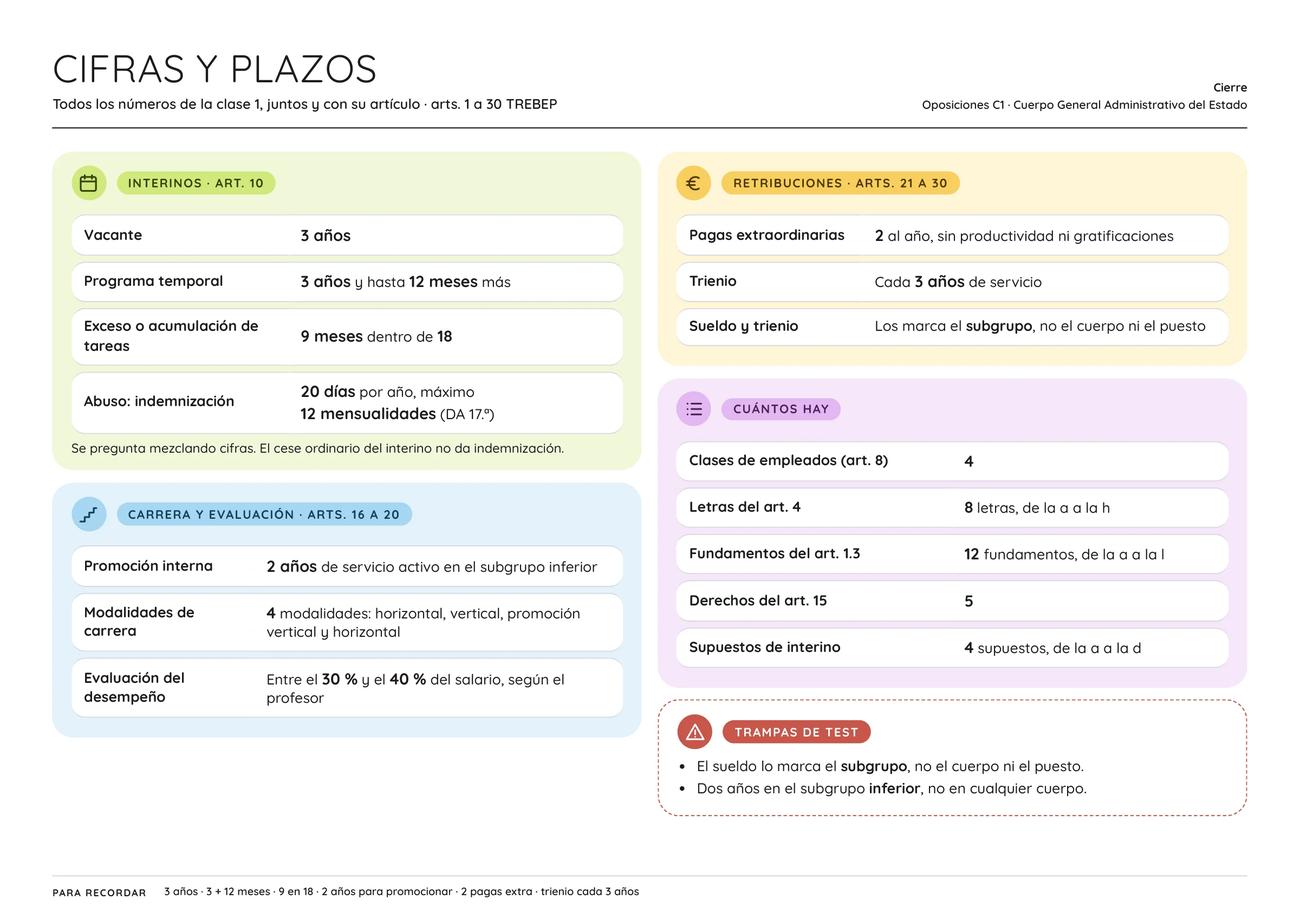
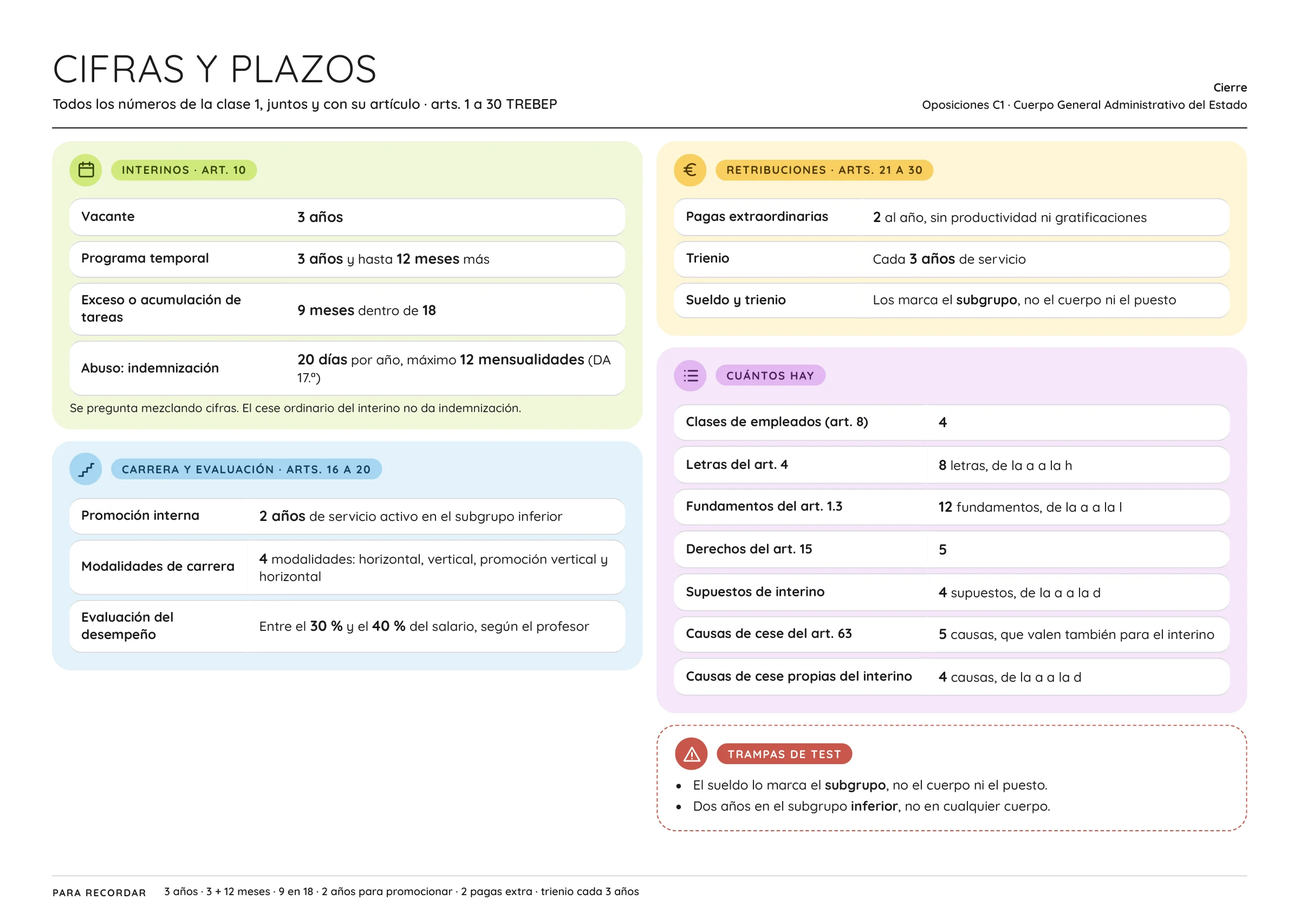
Apuntes: tres hojas nuevas del bloque 2 y fuera el glosario
Añade el cuadro de las cuatro clases, interinos (nombramiento, cese y régimen)
y personal eventual (organización, nombramiento y cese). Quita el glosario y
actualiza portada, cifras y plazos y el índice del volumen (27 hojas).

Changed region(s): [[0.0312, 0.1562, 0.9688, 0.9057]]

diff --git a/data/esquemas.js b/data/esquemas.js
@@ -1,3 +1,3 @@
-window.ESQUEMAS = {"portada": {"titulo": "Portada e índice", "paginas": [{"src": "img/esquemas/portada-1.webp", "w": 2400, "h": 1697}], "a": ""}, "metodo": {"titulo": "Método del supuesto práctico", "paginas": [{"src": "img/esquemas/metodo-1.webp", "w": 2400, "h": 1697}], "a": ""}, "senuelos": {"titulo": "Los señuelos que más se repiten", "paginas": [{"src": "img/esquemas/senuelos-1.webp", "w": 2400, "h": 1697}], "a": ""}, "t1-arranque": {"titulo": "El arranque del Estatuto", "paginas": [{"src": "img/esquemas/t1-arranque-1.webp", "w": 2400, "h": 1697}], "a": "1,6,7"}, "t1-aplica": {"titulo": "¿A quién se aplica el Estatuto?", "paginas": [{"src": "img/esquemas/t1-aplica-1.webp", "w": 2400, "h": 1697}], "a": "2,3"}, "t1-esquema": {"titulo": "Ámbito subjetivo de aplicación: el esquema", "paginas": [{"src": "img/esquemas/t1-esquema-1.webp", "w": 2400, "h": 1697}], "a": "2-5,7"}, "t1-propia": {"titulo": "¿Quién tiene ley propia?", "paginas": [{"src": "img/esquemas/t1-propia-1.webp", "w": 2400, "h": 1697}], "a": "4,5"}, "t1-practica": {"titulo": "Práctica y trampas del ámbito", "paginas": [{"src": "img/esquemas/t1-practica-1.webp", "w": 2400, "h": 1697}], "a": "1-7"}, "t2-clases": {"titulo": "Las cuatro clases de empleados", "paginas": [{"src": "img/esquemas/t2-clases-1.webp", "w": 2400, "h": 1697}], "a": "8,9,12,13"}, "t2-interinos": {"titulo": "Los interinos del art. 10", "paginas": [{"src": "img/esquemas/t2-interinos-1.webp", "w": 2400, "h": 1697}], "a": "10"}, "t2-laboral": {"titulo": "Laboral, eventual y directivo", "paginas": [{"src": "img/esquemas/t2-laboral-1.webp", "w": 2400, "h": 1697}], "a": "11-13"}, "t2-practica": {"titulo": "Práctica: qué empleado es y cómo cesa", "paginas": [{"src": "img/esquemas/t2-practica-1.webp", "w": 2400, "h": 1697}], "a": "8-13"}, "t3-14-15": {"titulo": "Art. 14 frente al art. 15", "paginas": [{"src": "img/esquemas/t3-14-15-1.webp", "w": 2400, "h": 1697}], "a": "14,15"}, "t3-practica": {"titulo": "Práctica: ¿art. 14 o art. 15?", "paginas": [{"src": "img/esquemas/t3-practica-1.webp", "w": 2400, "h": 1697}], "a": "14,15"}, "t4-escalera": {"titulo": "La escalera de la carrera profesional", "paginas": [{"src": "img/esquemas/t4-escalera-1.webp", "w": 2400, "h": 1697}], "a": "16"}, "t4-promocion": {"titulo": "Promoción interna y evaluación del desempeño", "paginas": [{"src": "img/esquemas/t4-promocion-1.webp", "w": 2400, "h": 1697}], "a": "17-20"}, "t4-practica": {"titulo": "Práctica: qué modalidad de carrera es", "paginas": [{"src": "img/esquemas/t4-practica-1.webp", "w": 2400, "h": 1697}], "a": "16-20"}, "t5-estructura": {"titulo": "La estructura retributiva", "paginas": [{"src": "img/esquemas/t5-estructura-1.webp", "w": 2400, "h": 1697}], "a": "21,22"}, "t5-basicas": {"titulo": "Básicas frente a complementarias", "paginas": [{"src": "img/esquemas/t5-basicas-1.webp", "w": 2400, "h": 1697}], "a": "23,24"}, "t5-otros": {"titulo": "Quién cobra qué: interinos, prácticas, laboral y diferidas", "paginas": [{"src": "img/esquemas/t5-otros-1.webp", "w": 2400, "h": 1697}], "a": "25-27,29"}, "t5-indemnizaciones": {"titulo": "Indemnizaciones y deducción de retribuciones", "paginas": [{"src": "img/esquemas/t5-indemnizaciones-1.webp", "w": 2400, "h": 1697}], "a": "28,30"}, "t5-practica": {"titulo": "Práctica: qué cobra y qué se le descuenta", "paginas": [{"src": "img/esquemas/t5-practica-1.webp", "w": 2400, "h": 1697}], "a": "21-30"}, "cifras": {"titulo": "Cifras y plazos", "paginas": [{"src": "img/esquemas/cifras-1.webp", "w": 2400, "h": 1697}], "a": ""}, "decide": {"titulo": "Quién decide y qué no se aplica", "paginas": [{"src": "img/esquemas/decide-1.webp", "w": 2400, "h": 1697}], "a": ""}, "glosario": {"titulo": "Glosario de términos de examen", "paginas": [{"src": "img/esquemas/glosario-1.webp", "w": 2400, "h": 1697}], "a": ""}};
-window.APUNTES = [{"id": "0", "etq": "00", "nombre": "Entrada", "desc": "Portada, método del supuesto práctico y los señuelos que más se repiten. Para empezar.", "grupos": [{"nombre": null, "ids": ["portada", "metodo", "senuelos"]}]}, {"id": "1", "etq": "01", "nombre": "Ámbito de aplicación", "desc": "Arts. 1 a 7. Qué regula el Estatuto, a quién se aplica y quién tiene legislación propia.", "grupos": [{"nombre": "Teoría", "ids": ["t1-arranque", "t1-aplica", "t1-esquema", "t1-propia"]}, {"nombre": "Práctica", "ids": ["t1-practica"]}]}, {"id": "2", "etq": "02", "nombre": "Clases de empleados públicos", "desc": "Arts. 8 a 13. Las cuatro clases de empleados, interinos incluidos.", "grupos": [{"nombre": "Teoría", "ids": ["t2-clases", "t2-interinos", "t2-laboral"]}, {"nombre": "Práctica", "ids": ["t2-practica"]}]}, {"id": "3", "etq": "03", "nombre": "Derechos de los empleados", "desc": "Arts. 14 y 15. Derechos individuales y derechos individuales ejercidos colectivamente.", "grupos": [{"nombre": "Teoría", "ids": ["t3-14-15"]}, {"nombre": "Práctica", "ids": ["t3-practica"]}]}, {"id": "4", "etq": "04", "nombre": "Carrera profesional", "desc": "Arts. 16 a 20. Carrera, promoción interna y evaluación del desempeño.", "grupos": [{"nombre": "Teoría", "ids": ["t4-escalera", "t4-promocion"]}, {"nombre": "Práctica", "ids": ["t4-practica"]}]}, {"id": "5", "etq": "05", "nombre": "Retribuciones", "desc": "Arts. 21 a 30. Estructura retributiva, sueldos, indemnizaciones y deducciones.", "grupos": [{"nombre": "Teoría", "ids": ["t5-estructura", "t5-basicas", "t5-otros", "t5-indemnizaciones"]}, {"nombre": "Práctica", "ids": ["t5-practica"]}]}, {"id": "6", "etq": "06", "nombre": "Cierre", "desc": "Cifras y plazos, quién decide y glosario. Para repasar.", "grupos": [{"nombre": null, "ids": ["cifras", "decide", "glosario"]}]}];
-window.ESQ_PREG = {"au-01-001": ["t1-arranque"], "au-01-002": ["t1-aplica", "t1-propia", "t1-esquema"], "au-01-003": ["t1-aplica", "t1-esquema"], "au-01-004": ["t1-aplica", "t1-esquema"], "au-01-005": ["t1-aplica", "t1-esquema"], "au-01-006": ["t1-propia", "t1-esquema"], "au-01-007": ["t1-aplica", "t1-esquema"], "au-01-008": ["t1-propia", "t1-esquema"], "au-01-009": ["t1-propia", "t1-esquema"], "au-01-010": ["t1-aplica", "t1-propia", "t1-esquema"], "au-01-011": ["t1-aplica", "t1-propia", "t1-esquema"], "au-01-012": ["t1-propia", "t1-esquema"], "au-01-013": ["t1-propia", "t1-esquema"], "au-01-014": ["t1-arranque", "t1-esquema"], "au-01-015": ["t1-arranque"], "au-02-001": ["t2-clases"], "au-02-002": ["t2-clases"], "au-02-003": ["t2-interinos"], "au-02-004": ["t2-interinos"], "au-02-005": ["t2-laboral", "t2-clases"], "au-02-006": ["t2-laboral", "t2-clases"], "au-02-007": ["t2-laboral", "t2-clases"], "au-02-008": ["t2-laboral", "t2-clases"], "au-02-009": ["t2-laboral", "t2-clases"], "au-02-010": ["t2-laboral", "t2-clases"], "au-02-011": ["t2-laboral", "t2-clases"], "au-02-012": ["t2-laboral"], "au-02-013": ["t2-laboral", "t2-clases"], "au-02-014": ["t2-laboral", "t2-clases"], "au-02-015": ["t2-interinos"], "au-02-016": ["t2-interinos"], "au-02-017": ["t2-clases"], "au-02-018": ["t2-clases"], "au-02-019": ["t2-interinos"], "au-02-020": ["t2-laboral", "t2-clases"], "au-03-001": ["t3-14-15"], "au-03-002": ["t3-14-15"], "au-03-003": ["t3-14-15"], "au-03-004": ["t3-14-15"], "au-03-005": ["t4-promocion"], "au-03-006": ["t4-escalera"], "au-03-007": ["t4-escalera"], "au-03-008": ["t4-promocion"], "au-03-009": ["t4-escalera"], "au-03-010": ["t4-promocion"], "au-03-011": ["t4-promocion"], "au-03-012": ["t4-promocion"], "au-03-013": ["t4-escalera"], "au-03-014": ["t4-promocion"], "au-03-015": ["t4-promocion"], "au-04-001": ["t5-basicas"], "au-04-002": ["t5-basicas"], "au-04-003": ["t5-basicas"], "au-04-004": ["t5-basicas"], "au-04-005": ["t5-basicas"], "au-04-006": ["t5-otros"], "au-04-007": ["t5-indemnizaciones", "t5-otros"], "au-04-008": ["t5-otros"], "au-04-009": ["t5-estructura"], "au-04-010": ["t5-basicas"], "au-04-011": ["t5-indemnizaciones"], "au-04-012": ["t5-basicas"], "au-04-013": ["t5-indemnizaciones"], "au-04-014": ["t5-estructura"], "au-04-015": ["t5-basicas"], "au-04-016": ["t5-estructura"], "au-04-017": ["t5-estructura", "t5-basicas"], "au-04-018": ["t5-otros"], "au-04-019": ["t5-otros"], "au-04-020": ["t5-estructura", "t5-basicas"], "au-08-012": ["t1-arranque", "t1-esquema"], "of-01-001": ["t1-arranque"], "of-01-002": ["t1-propia", "t1-esquema"], "of-01-003": ["t1-propia", "t1-esquema"], "of-01-004": ["t1-aplica", "t1-esquema"], "of-01-005": ["t1-propia", "t1-esquema"], "of-01-006": ["t1-propia", "t1-esquema"], "of-01-007": ["t1-arranque", "t1-esquema"], "of-01-008": ["t1-propia", "t1-esquema"], "of-01-009": ["t1-aplica", "t1-esquema"], "of-01-010": ["t1-arranque", "t1-esquema"], "of-01-011": ["t1-aplica", "t1-esquema"], "of-01-012": ["t1-propia", "t1-esquema"], "of-01-013": ["t1-aplica", "t1-esquema"], "of-02-001": ["t2-clases"], "of-02-002": ["t2-interinos"], "of-02-003": ["t2-clases"], "of-02-004": ["t2-laboral"], "of-02-005": ["t2-interinos"], "of-02-006": ["t2-interinos"], "of-02-007": ["t2-laboral", "t2-clases"], "of-02-008": ["t2-laboral", "t2-clases"], "of-02-009": ["t2-laboral"], "of-02-010": ["t2-clases"], "of-02-011": ["t2-laboral", "t2-clases"], "of-02-012": ["t2-interinos"], "of-02-013": ["t2-laboral", "t2-clases"], "of-02-014": ["t2-laboral", "t2-clases"], "of-02-015": ["t2-laboral"], "of-02-016": ["t2-laboral", "t2-clases"], "of-02-017": ["t2-interinos"], "of-02-018": ["t2-laboral", "t2-clases"], "of-02-019": ["t2-clases"], "of-02-020": ["t2-laboral"], "of-02-021": ["t2-interinos"], "of-02-022": ["t2-laboral", "t2-clases"], "of-02-023": ["t2-interinos"], "of-02-024": ["t2-laboral", "t2-clases"], "of-02-025": ["t2-clases"], "of-02-026": ["t2-interinos"], "of-02-027": ["t2-interinos"], "of-02-028": ["t2-laboral", "t2-clases"], "of-02-029": ["t2-interinos"], "of-02-030": ["t2-clases"], "of-02-031": ["t2-interinos"], "of-02-032": ["t2-laboral", "t2-clases"], "of-03-001": ["t4-escalera"], "of-03-002": ["t4-escalera"], "of-03-003": ["t4-escalera"], "of-03-004": ["t4-escalera"], "of-03-005": ["t4-escalera"], "of-03-006": ["t4-promocion"], "of-03-007": ["t4-promocion"], "of-03-008": ["t3-14-15"], "of-03-009": ["t4-escalera"], "of-03-010": ["t4-escalera"], "of-03-011": ["t3-14-15"], "of-03-012": ["t3-14-15"], "of-03-013": ["t3-14-15"], "of-03-014": ["t4-promocion"], "of-03-015": ["t3-14-15"], "of-03-016": ["t3-14-15"], "of-03-017": ["t3-14-15"], "of-03-018": ["t3-14-15"], "of-03-019": ["t4-promocion"], "of-03-020": ["t3-14-15"], "of-03-021": ["t4-promocion"], "of-04-001": ["t5-basicas"], "of-04-002": ["t5-basicas"], "of-04-003": ["t5-otros"], "of-04-004": ["t5-indemnizaciones"], "of-04-005": ["t5-basicas"], "of-04-006": ["t5-estructura"], "of-04-007": ["t5-otros"], "of-04-008": ["t5-basicas"], "of-04-009": ["t5-basicas"], "of-04-010": ["t5-otros"], "of-04-011": ["t5-basicas"], "of-04-012": ["t5-basicas"], "of-04-013": ["t5-basicas"], "of-04-014": ["t5-basicas"], "of-04-015": ["t5-basicas"], "of-04-016": ["t5-basicas"], "of-04-017": ["t5-estructura"], "of-04-018": ["t5-otros"], "of-04-019": ["t5-estructura"], "of-04-020": ["t5-estructura"], "vo-01-001": ["t1-aplica", "t1-esquema"], "vo-01-002": ["t1-aplica", "t1-esquema"], "vo-01-003": ["t1-propia", "t1-esquema"], "vo-01-004": ["t1-aplica", "t1-esquema"], "vo-01-005": ["t1-propia", "t1-esquema"], "vo-01-006": ["t1-aplica", "t1-esquema"], "vo-01-007": ["t2-clases"], "vo-01-008": ["t2-clases"], "vo-01-009": ["t2-clases"], "vo-01-010": ["t2-interinos"], "vo-01-011": ["t2-interinos"], "vo-01-012": ["t2-interinos"], "vo-01-013": ["t2-laboral"], "vo-01-014": ["t2-laboral", "t2-clases"], "vo-01-015": ["t2-laboral", "t2-clases"], "vo-01-016": ["t2-laboral", "t2-clases"], "vo-01-017": ["t2-laboral", "t2-clases"], "vo-01-018": ["t2-laboral", "t2-clases"], "vo-01-019": ["t3-14-15"], "vo-01-020": ["t3-14-15"], "vo-01-021": ["t3-14-15"], "vo-01-022": ["t4-escalera"], "vo-01-023": ["t4-escalera"], "vo-01-024": ["t4-escalera"], "vo-01-025": ["t4-promocion"], "vo-01-026": ["t4-promocion"], "vo-01-027": ["t4-promocion"], "vo-01-028": ["t5-basicas"], "vo-01-029": ["t5-basicas"], "vo-01-030": ["t5-basicas"], "vo-01-031": ["t5-indemnizaciones"], "vo-01-032": ["t5-otros"], "vo-01-033": ["t5-otros"], "vo-03-029": ["t4-escalera"], "vo-04-001": ["t1-arranque"], "vo-04-002": ["t1-aplica", "t1-esquema"], "vo-04-003": ["t1-aplica", "t1-esquema"], "vo-04-004": ["t1-propia", "t1-esquema"], "vo-04-005": ["t1-propia", "t1-esquema"], "vo-04-006": ["t1-arranque"], "vo-04-007": ["t1-arranque", "t1-esquema"], "vo-04-008": ["t2-clases"], "vo-04-009": ["t2-clases"], "vo-04-010": ["t2-clases"], "vo-04-011": ["t2-interinos"], "vo-04-012": ["t2-interinos"], "vo-04-013": ["t2-interinos"], "vo-04-014": ["t2-laboral"], "vo-04-015": ["t2-laboral", "t2-clases"], "vo-04-016": ["t2-laboral", "t2-clases"], "vo-04-017": ["t3-14-15"], "vo-04-018": ["t3-14-15"], "vo-04-019": ["t3-14-15"], "vo-04-020": ["t4-escalera"], "vo-04-021": ["t4-escalera"], "vo-04-022": ["t4-escalera"], "vo-04-023": ["t4-promocion"], "vo-04-024": ["t4-promocion"], "vo-04-025": ["t4-promocion"], "vo-04-026": ["t5-estructura"], "vo-04-027": ["t5-estructura"], "vo-04-028": ["t5-basicas"], "vo-04-029": ["t5-basicas"], "vo-04-030": ["t5-otros"], "vo-04-031": ["t5-otros"], "vo-04-032": ["t5-indemnizaciones"], "ex-01-001": ["t1-arranque"], "ex-01-002": ["t1-arranque"], "ex-01-003": ["t1-arranque"], "ex-01-004": ["t1-aplica", "t1-esquema"], "ex-01-005": ["t1-aplica", "t1-esquema"], "ex-01-006": ["t1-aplica", "t1-esquema"], "ex-01-007": ["t1-aplica", "t1-esquema"], "ex-01-008": ["t1-aplica", "t1-esquema"], "ex-01-009": ["t1-aplica", "t1-esquema"], "ex-01-010": ["t1-aplica", "t1-esquema"], "ex-01-011": ["t1-propia", "t1-esquema"], "ex-01-012": ["t1-aplica", "t1-esquema"], "ex-01-013": ["t1-propia", "t1-esquema"], "ex-01-014": ["t1-propia", "t1-esquema"], "ex-01-015": ["t1-arranque"], "ex-01-016": ["t1-arranque", "t1-esquema"], "ex-01-017": ["t1-arranque", "t1-esquema"], "ex-02-001": ["t1-propia", "t1-esquema"], "ex-02-002": ["t1-aplica", "t1-esquema"], "ex-02-003": ["t1-propia", "t1-esquema"], "ex-02-004": ["t1-aplica", "t1-esquema"], "ex-02-005": ["t1-propia", "t1-esquema"], "ex-02-006": ["t1-aplica", "t1-esquema"], "ex-02-007": ["t1-propia", "t1-esquema"], "ex-02-008": ["t1-aplica", "t1-esquema"], "ex-02-009": ["t1-propia", "t1-esquema"], "ex-02-010": ["t1-aplica", "t1-esquema"], "ex-03-001": ["t2-clases"], "ex-03-002": ["t2-clases"], "ex-03-003": ["t2-clases"], "ex-03-004": ["t2-interinos"], "ex-03-005": ["t2-interinos"], "ex-03-006": ["t2-interinos"], "ex-03-007": ["t2-interinos"], "ex-03-008": ["t2-interinos"], "ex-03-009": ["t2-interinos"], "ex-03-010": ["t2-interinos"], "ex-03-011": ["t2-interinos"], "ex-03-012": ["t2-interinos"], "ex-03-013": ["t2-interinos"], "ex-03-014": ["t2-laboral"], "ex-03-015": ["t2-laboral"], "ex-03-016": ["t2-laboral"], "ex-03-017": ["t2-laboral"], "ex-03-018": ["t2-laboral", "t2-clases"], "ex-03-019": ["t2-laboral", "t2-clases"], "ex-03-020": ["t2-laboral", "t2-clases"], "ex-03-021": ["t2-laboral", "t2-clases"], "ex-03-022": ["t2-laboral", "t2-clases"], "ex-03-023": ["t2-laboral", "t2-clases"], "ex-03-024": ["t2-laboral", "t2-clases"], "ex-03-025": ["t2-laboral", "t2-clases"], "ex-04-001": ["t3-14-15"], "ex-04-002": ["t3-14-15"], "ex-04-003": ["t3-14-15"], "ex-04-004": ["t3-14-15"], "ex-04-005": ["t3-14-15"], "ex-04-006": ["t3-14-15"], "ex-04-007": ["t3-14-15"], "ex-04-008": ["t3-14-15"], "ex-04-009": ["t3-14-15"], "ex-04-010": ["t3-14-15"], "ex-05-001": ["t4-escalera"], "ex-05-002": ["t4-escalera"], "ex-05-003": ["t4-escalera"], "ex-05-004": ["t4-escalera"], "ex-05-005": ["t4-escalera"], "ex-05-006": ["t4-escalera"], "ex-05-007": ["t4-promocion"], "ex-05-008": ["t4-promocion"], "ex-05-009": ["t4-promocion"], "ex-05-010": ["t4-promocion"], "ex-05-011": ["t4-promocion"], "ex-05-012": ["t4-promocion"], "ex-05-013": ["t4-promocion"], "ex-06-001": ["t5-estructura"], "ex-06-002": ["t5-estructura"], "ex-06-003": ["t5-estructura"], "ex-06-004": ["t5-estructura"], "ex-06-005": ["t5-basicas"], "ex-06-006": ["t5-basicas"], "ex-06-007": ["t5-basicas"], "ex-06-008": ["t5-basicas"], "ex-06-009": ["t5-otros"], "ex-06-010": ["t5-otros"], "ex-06-011": ["t5-otros"], "ex-06-012": ["t5-otros"], "ex-06-013": ["t5-indemnizaciones"], "ex-07-001": ["t2-interinos"], "ex-07-002": ["t5-basicas"], "ex-07-003": ["t2-laboral"], "ex-07-004": ["t2-interinos"], "ex-07-005": ["t2-laboral", "t2-clases"], "ex-07-006": ["t5-indemnizaciones"], "ex-07-007": ["t5-indemnizaciones"], "ex-07-008": ["t4-escalera"], "ex-07-009": ["t2-interinos"], "ex-07-010": ["t3-14-15"], "ex-07-011": ["t1-aplica", "t1-esquema"], "ex-07-012": ["t2-interinos", "t2-laboral"], "ex-07-013": ["t5-otros"], "ex-07-014": ["t2-interinos"], "ex-07-015": ["t1-arranque", "t1-esquema"], "ex-07-016": ["t4-promocion"], "ex-07-017": ["t5-basicas"], "ex-07-018": ["t2-clases"], "ex-07-019": ["t1-propia", "t1-esquema"], "ex-07-020": ["t2-laboral"], "su-02-001": ["t1-propia", "t1-esquema"], "su-02-002": ["t1-aplica", "t1-propia", "t1-esquema"], "su-02-003": ["t1-propia", "t1-esquema"], "su-02-004": ["t1-aplica", "t1-esquema"], "su-02-005": ["t1-aplica", "t1-esquema"], "su-02-006": ["t1-arranque", "t1-esquema"], "su-02-007": ["t1-aplica", "t1-esquema"], "su-03-001": ["t2-clases"], "su-03-002": ["t2-laboral"], "su-03-003": ["t2-laboral", "t2-clases"], "su-03-004": ["t2-laboral", "t2-clases"], "su-03-005": ["t3-14-15"], "su-03-006": ["t2-interinos"], "su-03-007": ["t2-interinos"], "su-03-008": ["t2-interinos"], "su-03-009": ["t2-interinos"], "su-03-010": ["t2-interinos"], "su-04-001": ["t4-escalera"], "su-04-002": ["t4-escalera", "t4-promocion"], "su-04-003": ["t4-escalera", "t4-promocion"], "su-04-004": ["t4-escalera"], "su-04-005": ["t5-estructura", "t5-basicas"], "su-04-006": ["t5-basicas"], "su-04-007": ["t5-basicas"], "su-04-008": ["t5-estructura"], "su-04-009": ["t5-basicas"], "su-04-010": ["t5-basicas"]};
+window.ESQUEMAS = {"portada": {"titulo": "Portada e índice", "paginas": [{"src": "img/esquemas/portada-1.webp", "w": 2400, "h": 1697}], "a": ""}, "metodo": {"titulo": "Método del supuesto práctico", "paginas": [{"src": "img/esquemas/metodo-1.webp", "w": 2400, "h": 1697}], "a": ""}, "senuelos": {"titulo": "Los señuelos que más se repiten", "paginas": [{"src": "img/esquemas/senuelos-1.webp", "w": 2400, "h": 1697}], "a": ""}, "t1-arranque": {"titulo": "El arranque del Estatuto", "paginas": [{"src": "img/esquemas/t1-arranque-1.webp", "w": 2400, "h": 1697}], "a": "1,6,7"}, "t1-aplica": {"titulo": "¿A quién se aplica el Estatuto?", "paginas": [{"src": "img/esquemas/t1-aplica-1.webp", "w": 2400, "h": 1697}], "a": "2,3"}, "t1-esquema": {"titulo": "Ámbito subjetivo de aplicación: el esquema", "paginas": [{"src": "img/esquemas/t1-esquema-1.webp", "w": 2400, "h": 1697}], "a": "2-5,7"}, "t1-propia": {"titulo": "¿Quién tiene ley propia?", "paginas": [{"src": "img/esquemas/t1-propia-1.webp", "w": 2400, "h": 1697}], "a": "4,5"}, "t1-practica": {"titulo": "Práctica y trampas del ámbito", "paginas": [{"src": "img/esquemas/t1-practica-1.webp", "w": 2400, "h": 1697}], "a": "1-7"}, "t2-clases": {"titulo": "Las cuatro clases de empleados", "paginas": [{"src": "img/esquemas/t2-clases-1.webp", "w": 2400, "h": 1697}], "a": "8,9,12,13"}, "t2-cuadro": {"titulo": "Cuadro comparativo de las cuatro clases", "paginas": [{"src": "img/esquemas/t2-cuadro-1.webp", "w": 2400, "h": 1697}], "a": "9-12"}, "t2-interinos": {"titulo": "Los interinos del art. 10", "paginas": [{"src": "img/esquemas/t2-interinos-1.webp", "w": 2400, "h": 1697}], "a": "10"}, "t2-interinos-cese": {"titulo": "Funcionarios interinos: nombramiento, cese y régimen", "paginas": [{"src": "img/esquemas/t2-interinos-cese-1.webp", "w": 2400, "h": 1697}], "a": "10"}, "t2-laboral": {"titulo": "Laboral, eventual y directivo", "paginas": [{"src": "img/esquemas/t2-laboral-1.webp", "w": 2400, "h": 1697}], "a": "11-13"}, "t2-eventual": {"titulo": "Personal eventual: organización, nombramiento y cese", "paginas": [{"src": "img/esquemas/t2-eventual-1.webp", "w": 2400, "h": 1697}], "a": "12"}, "t2-practica": {"titulo": "Práctica: qué empleado es y cómo cesa", "paginas": [{"src": "img/esquemas/t2-practica-1.webp", "w": 2400, "h": 1697}], "a": "8-13"}, "t3-14-15": {"titulo": "Art. 14 frente al art. 15", "paginas": [{"src": "img/esquemas/t3-14-15-1.webp", "w": 2400, "h": 1697}], "a": "14,15"}, "t3-practica": {"titulo": "Práctica: ¿art. 14 o art. 15?", "paginas": [{"src": "img/esquemas/t3-practica-1.webp", "w": 2400, "h": 1697}], "a": "14,15"}, "t4-escalera": {"titulo": "La escalera de la carrera profesional", "paginas": [{"src": "img/esquemas/t4-escalera-1.webp", "w": 2400, "h": 1697}], "a": "16"}, "t4-promocion": {"titulo": "Promoción interna y evaluación del desempeño", "paginas": [{"src": "img/esquemas/t4-promocion-1.webp", "w": 2400, "h": 1697}], "a": "17-20"}, "t4-practica": {"titulo": "Práctica: qué modalidad de carrera es", "paginas": [{"src": "img/esquemas/t4-practica-1.webp", "w": 2400, "h": 1697}], "a": "16-20"}, "t5-estructura": {"titulo": "La estructura retributiva", "paginas": [{"src": "img/esquemas/t5-estructura-1.webp", "w": 2400, "h": 1697}], "a": "21,22"}, "t5-basicas": {"titulo": "Básicas frente a complementarias", "paginas": [{"src": "img/esquemas/t5-basicas-1.webp", "w": 2400, "h": 1697}], "a": "23,24"}, "t5-otros": {"titulo": "Quién cobra qué: interinos, prácticas, laboral y diferidas", "paginas": [{"src": "img/esquemas/t5-otros-1.webp", "w": 2400, "h": 1697}], "a": "25-27,29"}, "t5-indemnizaciones": {"titulo": "Indemnizaciones y deducción de retribuciones", "paginas": [{"src": "img/esquemas/t5-indemnizaciones-1.webp", "w": 2400, "h": 1697}], "a": "28,30"}, "t5-practica": {"titulo": "Práctica: qué cobra y qué se le descuenta", "paginas": [{"src": "img/esquemas/t5-practica-1.webp", "w": 2400, "h": 1697}], "a": "21-30"}, "cifras": {"titulo": "Cifras y plazos", "paginas": [{"src": "img/esquemas/cifras-1.webp", "w": 2400, "h": 1697}], "a": ""}, "decide": {"titulo": "Quién decide y qué no se aplica", "paginas": [{"src": "img/esquemas/decide-1.webp", "w": 2400, "h": 1697}], "a": ""}};
+window.APUNTES = [{"id": "0", "etq": "00", "nombre": "Entrada", "desc": "Portada, método del supuesto práctico y los señuelos que más se repiten. Para empezar.", "grupos": [{"nombre": null, "ids": ["portada", "metodo", "senuelos"]}]}, {"id": "1", "etq": "01", "nombre": "Ámbito de aplicación", "desc": "Arts. 1 a 7. Qué regula el Estatuto, a quién se aplica y quién tiene legislación propia.", "grupos": [{"nombre": "Teoría", "ids": ["t1-arranque", "t1-aplica", "t1-esquema", "t1-propia"]}, {"nombre": "Práctica", "ids": ["t1-practica"]}]}, {"id": "2", "etq": "02", "nombre": "Clases de empleados públicos", "desc": "Arts. 8 a 13. Las cuatro clases de empleados, con su cuadro, los interinos y el personal eventual.", "grupos": [{"nombre": "Teoría", "ids": ["t2-clases", "t2-cuadro", "t2-interinos", "t2-interinos-cese", "t2-laboral", "t2-eventual"]}, {"nombre": "Práctica", "ids": ["t2-practica"]}]}, {"id": "3", "etq": "03", "nombre": "Derechos de los empleados", "desc": "Arts. 14 y 15. Derechos individuales y derechos individuales ejercidos colectivamente.", "grupos": [{"nombre": "Teoría", "ids": ["t3-14-15"]}, {"nombre": "Práctica", "ids": ["t3-practica"]}]}, {"id": "4", "etq": "04", "nombre": "Carrera profesional", "desc": "Arts. 16 a 20. Carrera, promoción interna y evaluación del desempeño.", "grupos": [{"nombre": "Teoría", "ids": ["t4-escalera", "t4-promocion"]}, {"nombre": "Práctica", "ids": ["t4-practica"]}]}, {"id": "5", "etq": "05", "nombre": "Retribuciones", "desc": "Arts. 21 a 30. Estructura retributiva, sueldos, indemnizaciones y deducciones.", "grupos": [{"nombre": "Teoría", "ids": ["t5-estructura", "t5-basicas", "t5-otros", "t5-indemnizaciones"]}, {"nombre": "Práctica", "ids": ["t5-practica"]}]}, {"id": "6", "etq": "06", "nombre": "Cierre", "desc": "Cifras y plazos y quién decide. Para repasar.", "grupos": [{"nombre": null, "ids": ["cifras", "decide"]}]}];
+window.ESQ_PREG = {"au-01-001": ["t1-arranque"], "au-01-002": ["t1-aplica", "t1-propia", "t1-esquema"], "au-01-003": ["t1-aplica", "t1-esquema"], "au-01-004": ["t1-aplica", "t1-esquema"], "au-01-005": ["t1-aplica", "t1-esquema"], "au-01-006": ["t1-propia", "t1-esquema"], "au-01-007": ["t1-aplica", "t1-esquema"], "au-01-008": ["t1-propia", "t1-esquema"], "au-01-009": ["t1-propia", "t1-esquema"], "au-01-010": ["t1-aplica", "t1-propia", "t1-esquema"], "au-01-011": ["t1-aplica", "t1-propia", "t1-esquema"], "au-01-012": ["t1-propia", "t1-esquema"], "au-01-013": ["t1-propia", "t1-esquema"], "au-01-014": ["t1-arranque", "t1-esquema"], "au-01-015": ["t1-arranque"], "au-02-001": ["t2-clases"], "au-02-002": ["t2-clases", "t2-cuadro"], "au-02-003": ["t2-interinos", "t2-interinos-cese", "t2-cuadro"], "au-02-004": ["t2-interinos", "t2-interinos-cese", "t2-cuadro"], "au-02-005": ["t2-laboral", "t2-clases"], "au-02-006": ["t2-laboral", "t2-clases"], "au-02-007": ["t2-laboral", "t2-clases"], "au-02-008": ["t2-laboral", "t2-clases"], "au-02-009": ["t2-eventual", "t2-laboral", "t2-clases", "t2-cuadro"], "au-02-010": ["t2-laboral", "t2-clases"], "au-02-011": ["t2-eventual", "t2-laboral", "t2-clases", "t2-cuadro"], "au-02-012": ["t2-laboral", "t2-cuadro"], "au-02-013": ["t2-eventual", "t2-laboral", "t2-clases", "t2-cuadro"], "au-02-014": ["t2-eventual", "t2-laboral", "t2-clases", "t2-cuadro"], "au-02-015": ["t2-interinos", "t2-interinos-cese", "t2-cuadro"], "au-02-016": ["t2-interinos", "t2-interinos-cese", "t2-cuadro"], "au-02-017": ["t2-clases"], "au-02-018": ["t2-clases", "t2-cuadro"], "au-02-019": ["t2-interinos", "t2-interinos-cese", "t2-cuadro"], "au-02-020": ["t2-eventual", "t2-laboral", "t2-clases", "t2-cuadro"], "au-03-001": ["t3-14-15"], "au-03-002": ["t3-14-15"], "au-03-003": ["t3-14-15"], "au-03-004": ["t3-14-15"], "au-03-005": ["t4-promocion"], "au-03-006": ["t4-escalera"], "au-03-007": ["t4-escalera"], "au-03-008": ["t4-promocion"], "au-03-009": ["t4-escalera"], "au-03-010": ["t4-promocion"], "au-03-011": ["t4-promocion"], "au-03-012": ["t4-promocion"], "au-03-013": ["t4-escalera"], "au-03-014": ["t4-promocion"], "au-03-015": ["t4-promocion"], "au-04-001": ["t5-basicas"], "au-04-002": ["t5-basicas"], "au-04-003": ["t5-basicas"], "au-04-004": ["t5-basicas"], "au-04-005": ["t5-basicas"], "au-04-006": ["t5-otros"], "au-04-007": ["t5-indemnizaciones", "t5-otros"], "au-04-008": ["t5-otros"], "au-04-009": ["t5-estructura"], "au-04-010": ["t5-basicas"], "au-04-011": ["t5-indemnizaciones"], "au-04-012": ["t5-basicas"], "au-04-013": ["t5-indemnizaciones"], "au-04-014": ["t5-estructura"], "au-04-015": ["t5-basicas"], "au-04-016": ["t5-estructura"], "au-04-017": ["t5-estructura", "t5-basicas"], "au-04-018": ["t5-otros"], "au-04-019": ["t5-otros"], "au-04-020": ["t5-estructura", "t5-basicas"], "au-08-012": ["t1-arranque", "t1-esquema"], "of-01-001": ["t1-arranque"], "of-01-002": ["t1-propia", "t1-esquema"], "of-01-003": ["t1-propia", "t1-esquema"], "of-01-004": ["t1-aplica", "t1-esquema"], "of-01-005": ["t1-propia", "t1-esquema"], "of-01-006": ["t1-propia", "t1-esquema"], "of-01-007": ["t1-arranque", "t1-esquema"], "of-01-008": ["t1-propia", "t1-esquema"], "of-01-009": ["t1-aplica", "t1-esquema"], "of-01-010": ["t1-arranque", "t1-esquema"], "of-01-011": ["t1-aplica", "t1-esquema"], "of-01-012": ["t1-propia", "t1-esquema"], "of-01-013": ["t1-aplica", "t1-esquema"], "of-02-001": ["t2-clases"], "of-02-002": ["t2-interinos", "t2-interinos-cese", "t2-cuadro"], "of-02-003": ["t2-clases", "t2-cuadro"], "of-02-004": ["t2-laboral", "t2-cuadro"], "of-02-005": ["t2-interinos", "t2-interinos-cese", "t2-cuadro"], "of-02-006": ["t2-interinos", "t2-interinos-cese", "t2-cuadro"], "of-02-007": ["t2-laboral", "t2-clases"], "of-02-008": ["t2-eventual", "t2-laboral", "t2-clases", "t2-cuadro"], "of-02-009": ["t2-laboral", "t2-cuadro"], "of-02-010": ["t2-clases", "t2-cuadro"], "of-02-011": ["t2-eventual", "t2-laboral", "t2-clases", "t2-cuadro"], "of-02-012": ["t2-interinos", "t2-interinos-cese", "t2-cuadro"], "of-02-013": ["t2-laboral", "t2-clases"], "of-02-014": ["t2-eventual", "t2-laboral", "t2-clases", "t2-cuadro"], "of-02-015": ["t2-laboral", "t2-cuadro"], "of-02-016": ["t2-eventual", "t2-laboral", "t2-clases", "t2-cuadro"], "of-02-017": ["t2-interinos", "t2-interinos-cese", "t2-cuadro"], "of-02-018": ["t2-eventual", "t2-laboral", "t2-clases", "t2-cuadro"], "of-02-019": ["t2-clases"], "of-02-020": ["t2-laboral", "t2-cuadro"], "of-02-021": ["t2-interinos", "t2-interinos-cese", "t2-cuadro"], "of-02-022": ["t2-eventual", "t2-laboral", "t2-clases", "t2-cuadro"], "of-02-023": ["t2-interinos", "t2-interinos-cese", "t2-cuadro"], "of-02-024": ["t2-eventual", "t2-laboral", "t2-clases", "t2-cuadro"], "of-02-025": ["t2-clases", "t2-cuadro"], "of-02-026": ["t2-interinos", "t2-interinos-cese", "t2-cuadro"], "of-02-027": ["t2-interinos", "t2-interinos-cese", "t2-cuadro"], "of-02-028": ["t2-laboral", "t2-clases"], "of-02-029": ["t2-interinos", "t2-interinos-cese", "t2-cuadro"], "of-02-030": ["t2-clases"], "of-02-031": ["t2-interinos", "t2-interinos-cese", "t2-cuadro"], "of-02-032": ["t2-eventual", "t2-laboral", "t2-clases", "t2-cuadro"], "of-03-001": ["t4-escalera"], "of-03-002": ["t4-escalera"], "of-03-003": ["t4-escalera"], "of-03-004": ["t4-escalera"], "of-03-005": ["t4-escalera"], "of-03-006": ["t4-promocion"], "of-03-007": ["t4-promocion"], "of-03-008": ["t3-14-15"], "of-03-009": ["t4-escalera"], "of-03-010": ["t4-escalera"], "of-03-011": ["t3-14-15"], "of-03-012": ["t3-14-15"], "of-03-013": ["t3-14-15"], "of-03-014": ["t4-promocion"], "of-03-015": ["t3-14-15"], "of-03-016": ["t3-14-15"], "of-03-017": ["t3-14-15"], "of-03-018": ["t3-14-15"], "of-03-019": ["t4-promocion"], "of-03-020": ["t3-14-15"], "of-03-021": ["t4-promocion"], "of-04-001": ["t5-basicas"], "of-04-002": ["t5-basicas"], "of-04-003": ["t5-otros"], "of-04-004": ["t5-indemnizaciones"], "of-04-005": ["t5-basicas"], "of-04-006": ["t5-estructura"], "of-04-007": ["t5-otros"], "of-04-008": ["t5-basicas"], "of-04-009": ["t5-basicas"], "of-04-010": ["t5-otros"], "of-04-011": ["t5-basicas"], "of-04-012": ["t5-basicas"], "of-04-013": ["t5-basicas"], "of-04-014": ["t5-basicas"], "of-04-015": ["t5-basicas"], "of-04-016": ["t5-basicas"], "of-04-017": ["t5-estructura"], "of-04-018": ["t5-otros"], "of-04-019": ["t5-estructura"], "of-04-020": ["t5-estructura"], "vo-01-001": ["t1-aplica", "t1-esquema"], "vo-01-002": ["t1-aplica", "t1-esquema"], "vo-01-003": ["t1-propia", "t1-esquema"], "vo-01-004": ["t1-aplica", "t1-esquema"], "vo-01-005": ["t1-propia", "t1-esquema"], "vo-01-006": ["t1-aplica", "t1-esquema"], "vo-01-007": ["t2-clases"], "vo-01-008": ["t2-clases", "t2-cuadro"], "vo-01-009": ["t2-clases", "t2-cuadro"], "vo-01-010": ["t2-interinos", "t2-interinos-cese", "t2-cuadro"], "vo-01-011": ["t2-interinos", "t2-interinos-cese", "t2-cuadro"], "vo-01-012": ["t2-interinos", "t2-interinos-cese", "t2-cuadro"], "vo-01-013": ["t2-laboral", "t2-cuadro"], "vo-01-014": ["t2-eventual", "t2-laboral", "t2-clases", "t2-cuadro"], "vo-01-015": ["t2-eventual", "t2-laboral", "t2-clases", "t2-cuadro"], "vo-01-016": ["t2-laboral", "t2-clases"], "vo-01-017": ["t2-laboral", "t2-clases"], "vo-01-018": ["t2-laboral", "t2-clases"], "vo-01-019": ["t3-14-15"], "vo-01-020": ["t3-14-15"], "vo-01-021": ["t3-14-15"], "vo-01-022": ["t4-escalera"], "vo-01-023": ["t4-escalera"], "vo-01-024": ["t4-escalera"], "vo-01-025": ["t4-promocion"], "vo-01-026": ["t4-promocion"], "vo-01-027": ["t4-promocion"], "vo-01-028": ["t5-basicas"], "vo-01-029": ["t5-basicas"], "vo-01-030": ["t5-basicas"], "vo-01-031": ["t5-indemnizaciones"], "vo-01-032": ["t5-otros"], "vo-01-033": ["t5-otros"], "vo-03-029": ["t4-escalera"], "vo-04-001": ["t1-arranque"], "vo-04-002": ["t1-aplica", "t1-esquema"], "vo-04-003": ["t1-aplica", "t1-esquema"], "vo-04-004": ["t1-propia", "t1-esquema"], "vo-04-005": ["t1-propia", "t1-esquema"], "vo-04-006": ["t1-arranque"], "vo-04-007": ["t1-arranque", "t1-esquema"], "vo-04-008": ["t2-clases"], "vo-04-009": ["t2-clases", "t2-cuadro"], "vo-04-010": ["t2-clases", "t2-cuadro"], "vo-04-011": ["t2-interinos", "t2-interinos-cese", "t2-cuadro"], "vo-04-012": ["t2-interinos", "t2-interinos-cese", "t2-cuadro"], "vo-04-013": ["t2-interinos", "t2-interinos-cese", "t2-cuadro"], "vo-04-014": ["t2-laboral", "t2-cuadro"], "vo-04-015": ["t2-eventual", "t2-laboral", "t2-clases", "t2-cuadro"], "vo-04-016": ["t2-laboral", "t2-clases"], "vo-04-017": ["t3-14-15"], "vo-04-018": ["t3-14-15"], "vo-04-019": ["t3-14-15"], "vo-04-020": ["t4-escalera"], "vo-04-021": ["t4-escalera"], "vo-04-022": ["t4-escalera"], "vo-04-023": ["t4-promocion"], "vo-04-024": ["t4-promocion"], "vo-04-025": ["t4-promocion"], "vo-04-026": ["t5-estructura"], "vo-04-027": ["t5-estructura"], "vo-04-028": ["t5-basicas"], "vo-04-029": ["t5-basicas"], "vo-04-030": ["t5-otros"], "vo-04-031": ["t5-otros"], "vo-04-032": ["t5-indemnizaciones"], "ex-01-001": ["t1-arranque"], "ex-01-002": ["t1-arranque"], "ex-01-003": ["t1-arranque"], "ex-01-004": ["t1-aplica", "t1-esquema"], "ex-01-005": ["t1-aplica", "t1-esquema"], "ex-01-006": ["t1-aplica", "t1-esquema"], "ex-01-007": ["t1-aplica", "t1-esquema"], "ex-01-008": ["t1-aplica", "t1-esquema"], "ex-01-009": ["t1-aplica", "t1-esquema"], "ex-01-010": ["t1-aplica", "t1-esquema"], "ex-01-011": ["t1-propia", "t1-esquema"], "ex-01-012": ["t1-aplica", "t1-esquema"], "ex-01-013": ["t1-propia", "t1-esquema"], "ex-01-014": ["t1-propia", "t1-esquema"], "ex-01-015": ["t1-arranque"], "ex-01-016": ["t1-arranque", "t1-esquema"], "ex-01-017": ["t1-arranque", "t1-esquema"], "ex-02-001": ["t1-propia", "t1-esquema"], "ex-02-002": ["t1-aplica", "t1-esquema"], "ex-02-003": ["t1-propia", "t1-esquema"], "ex-02-004": ["t1-aplica", "t1-esquema"], "ex-02-005": ["t1-propia", "t1-esquema"], "ex-02-006": ["t1-aplica", "t1-esquema"], "ex-02-007": ["t1-propia", "t1-esquema"], "ex-02-008": ["t1-aplica", "t1-esquema"], "ex-02-009": ["t1-propia", "t1-esquema"], "ex-02-010": ["t1-aplica", "t1-esquema"], "ex-03-001": ["t2-clases"], "ex-03-002": ["t2-clases", "t2-cuadro"], "ex-03-003": ["t2-clases", "t2-cuadro"], "ex-03-004": ["t2-interinos", "t2-interinos-cese", "t2-cuadro"], "ex-03-005": ["t2-interinos", "t2-interinos-cese", "t2-cuadro"], "ex-03-006": ["t2-interinos", "t2-interinos-cese", "t2-cuadro"], "ex-03-007": ["t2-interinos", "t2-interinos-cese", "t2-cuadro"], "ex-03-008": ["t2-interinos", "t2-interinos-cese", "t2-cuadro"], "ex-03-009": ["t2-interinos", "t2-interinos-cese", "t2-cuadro"], "ex-03-010": ["t2-interinos", "t2-interinos-cese", "t2-cuadro"], "ex-03-011": ["t2-interinos", "t2-interinos-cese", "t2-cuadro"], "ex-03-012": ["t2-interinos", "t2-interinos-cese", "t2-cuadro"], "ex-03-013": ["t2-interinos", "t2-interinos-cese", "t2-cuadro"], "ex-03-014": ["t2-laboral", "t2-cuadro"], "ex-03-015": ["t2-laboral", "t2-cuadro"], "ex-03-016": ["t2-laboral", "t2-cuadro"], "ex-03-017": ["t2-laboral", "t2-cuadro"], "ex-03-018": ["t2-eventual", "t2-laboral", "t2-clases", "t2-cuadro"], "ex-03-019": ["t2-eventual", "t2-laboral", "t2-clases", "t2-cuadro"], "ex-03-020": ["t2-eventual", "t2-laboral", "t2-clases", "t2-cuadro"], "ex-03-021": ["t2-eventual", "t2-laboral", "t2-clases", "t2-cuadro"], "ex-03-022": ["t2-laboral", "t2-clases"], "ex-03-023": ["t2-laboral", "t2-clases"], "ex-03-024": ["t2-laboral", "t2-clases"], "ex-03-025": ["t2-laboral", "t2-clases"], "ex-04-001": ["t3-14-15"], "ex-04-002": ["t3-14-15"], "ex-04-003": ["t3-14-15"], "ex-04-004": ["t3-14-15"], "ex-04-005": ["t3-14-15"], "ex-04-006": ["t3-14-15"], "ex-04-007": ["t3-14-15"], "ex-04-008": ["t3-14-15"], "ex-04-009": ["t3-14-15"], "ex-04-010": ["t3-14-15"], "ex-05-001": ["t4-escalera"], "ex-05-002": ["t4-escalera"], "ex-05-003": ["t4-escalera"], "ex-05-004": ["t4-escalera"], "ex-05-005": ["t4-escalera"], "ex-05-006": ["t4-escalera"], "ex-05-007": ["t4-promocion"], "ex-05-008": ["t4-promocion"], "ex-05-009": ["t4-promocion"], "ex-05-010": ["t4-promocion"], "ex-05-011": ["t4-promocion"], "ex-05-012": ["t4-promocion"], "ex-05-013": ["t4-promocion"], "ex-06-001": ["t5-estructura"], "ex-06-002": ["t5-estructura"], "ex-06-003": ["t5-estructura"], "ex-06-004": ["t5-estructura"], "ex-06-005": ["t5-basicas"], "ex-06-006": ["t5-basicas"], "ex-06-007": ["t5-basicas"], "ex-06-008": ["t5-basicas"], "ex-06-009": ["t5-otros"], "ex-06-010": ["t5-otros"], "ex-06-011": ["t5-otros"], "ex-06-012": ["t5-otros"], "ex-06-013": ["t5-indemnizaciones"], "ex-07-001": ["t2-interinos", "t2-interinos-cese", "t2-cuadro"], "ex-07-002": ["t5-basicas"], "ex-07-003": ["t2-laboral", "t2-cuadro"], "ex-07-004": ["t2-interinos", "t2-interinos-cese", "t2-cuadro"], "ex-07-005": ["t2-eventual", "t2-laboral", "t2-clases", "t2-cuadro"], "ex-07-006": ["t5-indemnizaciones"], "ex-07-007": ["t5-indemnizaciones"], "ex-07-008": ["t4-escalera"], "ex-07-009": ["t2-interinos", "t2-interinos-cese", "t2-cuadro"], "ex-07-010": ["t3-14-15"], "ex-07-011": ["t1-aplica", "t1-esquema"], "ex-07-012": ["t2-interinos", "t2-interinos-cese", "t2-laboral", "t2-cuadro"], "ex-07-013": ["t5-otros"], "ex-07-014": ["t2-interinos", "t2-interinos-cese", "t2-cuadro"], "ex-07-015": ["t1-arranque", "t1-esquema"], "ex-07-016": ["t4-promocion"], "ex-07-017": ["t5-basicas"], "ex-07-018": ["t2-clases"], "ex-07-019": ["t1-propia", "t1-esquema"], "ex-07-020": ["t2-laboral", "t2-cuadro"], "su-02-001": ["t1-propia", "t1-esquema"], "su-02-002": ["t1-aplica", "t1-propia", "t1-esquema"], "su-02-003": ["t1-propia", "t1-esquema"], "su-02-004": ["t1-aplica", "t1-esquema"], "su-02-005": ["t1-aplica", "t1-esquema"], "su-02-006": ["t1-arranque", "t1-esquema"], "su-02-007": ["t1-aplica", "t1-esquema"], "su-03-001": ["t2-clases", "t2-cuadro"], "su-03-002": ["t2-laboral", "t2-cuadro"], "su-03-003": ["t2-eventual", "t2-laboral", "t2-clases", "t2-cuadro"], "su-03-004": ["t2-eventual", "t2-laboral", "t2-clases", "t2-cuadro"], "su-03-005": ["t3-14-15"], "su-03-006": ["t2-interinos", "t2-interinos-cese", "t2-cuadro"], "su-03-007": ["t2-interinos", "t2-interinos-cese", "t2-cuadro"], "su-03-008": ["t2-interinos", "t2-interinos-cese", "t2-cuadro"], "su-03-009": ["t2-interinos", "t2-interinos-cese", "t2-cuadro"], "su-03-010": ["t2-interinos", "t2-interinos-cese", "t2-cuadro"], "su-04-001": ["t4-escalera"], "su-04-002": ["t4-escalera", "t4-promocion"], "su-04-003": ["t4-escalera", "t4-promocion"], "su-04-004": ["t4-escalera"], "su-04-005": ["t5-estructura", "t5-basicas"], "su-04-006": ["t5-basicas"], "su-04-007": ["t5-basicas"], "su-04-008": ["t5-estructura"], "su-04-009": ["t5-basicas"], "su-04-010": ["t5-basicas"]};

diff --git a/index.html b/index.html
@@ -18,7 +18,7 @@
 <div id="aviso" class="solo-lector" aria-live="polite"></div>
 <noscript>Esta aplicación necesita JavaScript.</noscript>
 <script src="data/trebep.js?v=7"></script>
-<script src="data/esquemas.js?v=5"></script>
+<script src="data/esquemas.js?v=6"></script>
 <script src="js/vendor/gsap.min.js?v=3.13.0"></script>
 <script src="js/vendor/Flip.min.js?v=3.13.0"></script>
 <script src="js/movimiento.js?v=1"></script>

diff --git a/tools/volumen.py b/tools/volumen.py
@@ -44,8 +44,11 @@ HOJAS = {
     "06": ("t1-propia", "¿Quién tiene ley propia?", "4,5", "teoria"),
     "07": ("t1-practica", "Práctica y trampas del ámbito", "1-7", "practica"),
     "08": ("t2-clases", "Las cuatro clases de empleados", "8,9,12,13", "teoria"),
+    "08b": ("t2-cuadro", "Cuadro comparativo de las cuatro clases", "9-12", "teoria"),
     "09": ("t2-interinos", "Los interinos del art. 10", "10", "teoria"),
+    "09b": ("t2-interinos-cese", "Funcionarios interinos: nombramiento, cese y régimen", "10", "teoria"),
     "10": ("t2-laboral", "Laboral, eventual y directivo", "11-13", "teoria"),
+    "10b": ("t2-eventual", "Personal eventual: organización, nombramiento y cese", "12", "teoria"),
     "11": ("t2-practica", "Práctica: qué empleado es y cómo cesa", "8-13", "practica"),
     "12": ("t3-14-15", "Art. 14 frente al art. 15", "14,15", "teoria"),
     "13": ("t3-practica", "Práctica: ¿art. 14 o art. 15?", "14,15", "practica"),
@@ -59,18 +62,17 @@ HOJAS = {
     "21": ("t5-practica", "Práctica: qué cobra y qué se le descuenta", "21-30", "practica"),
     "22": ("cifras", "Cifras y plazos", "", "cierre"),
     "23": ("decide", "Quién decide y qué no se aplica", "", "cierre"),
-    "24": ("glosario", "Glosario de términos de examen", "", "cierre"),
 }
 
 # bloques de la pestaña Apuntes: (id, etiqueta, nombre, descripción, hojas)
 BLOQUES = [
     ("0", "00", "Entrada", "Portada, método del supuesto práctico y los señuelos que más se repiten. Para empezar.", ["01", "02", "03"]),
     ("1", "01", "Ámbito de aplicación", "Arts. 1 a 7. Qué regula el Estatuto, a quién se aplica y quién tiene legislación propia.", ["04", "05", "05b", "06", "07"]),
-    ("2", "02", "Clases de empleados públicos", "Arts. 8 a 13. Las cuatro clases de empleados, interinos incluidos.", ["08", "09", "10", "11"]),
+    ("2", "02", "Clases de empleados públicos", "Arts. 8 a 13. Las cuatro clases de empleados, con su cuadro, los interinos y el personal eventual.", ["08", "08b", "09", "09b", "10", "10b", "11"]),
     ("3", "03", "Derechos de los empleados", "Arts. 14 y 15. Derechos individuales y derechos individuales ejercidos colectivamente.", ["12", "13"]),
     ("4", "04", "Carrera profesional", "Arts. 16 a 20. Carrera, promoción interna y evaluación del desempeño.", ["14", "15", "16"]),
     ("5", "05", "Retribuciones", "Arts. 21 a 30. Estructura retributiva, sueldos, indemnizaciones y deducciones.", ["17", "18", "19", "20", "21"]),
-    ("6", "06", "Cierre", "Cifras y plazos, quién decide y glosario. Para repasar.", ["22", "23", "24"]),
+    ("6", "06", "Cierre", "Cifras y plazos y quién decide. Para repasar.", ["22", "23"]),
 ]
 
 

diff --git a/README.md b/README.md
@@ -29,7 +29,7 @@ Autoevaluación, Oficiales, Votaciones, Exámenes y Ejercicios salen en Examen. 
 
 ## Apuntes (tools/volumen.py)
 
-La pestaña Apuntes lleva el volumen «TREBEP · Apuntes» (25 hojas A4 apaisadas, clase 1, arts. 1 a 30): una entrada con el método del supuesto y los señuelos, cinco bloques con su teoría y su práctica (ámbito, clases de empleados, derechos, carrera y retribuciones) y un cierre con cifras y plazos, quién decide y glosario. Se importa con:
+La pestaña Apuntes lleva el volumen «TREBEP · Apuntes» (27 hojas A4 apaisadas, clase 1, arts. 1 a 30): una entrada con el método del supuesto y los señuelos, cinco bloques con su teoría y su práctica (ámbito, clases de empleados, derechos, carrera y retribuciones) y un cierre con cifras y plazos, y quién decide. Se importa con:
 
 ```bash
 python3 tools/construir.py                                  # primero, para que data/trebep.js tenga las preguntas
